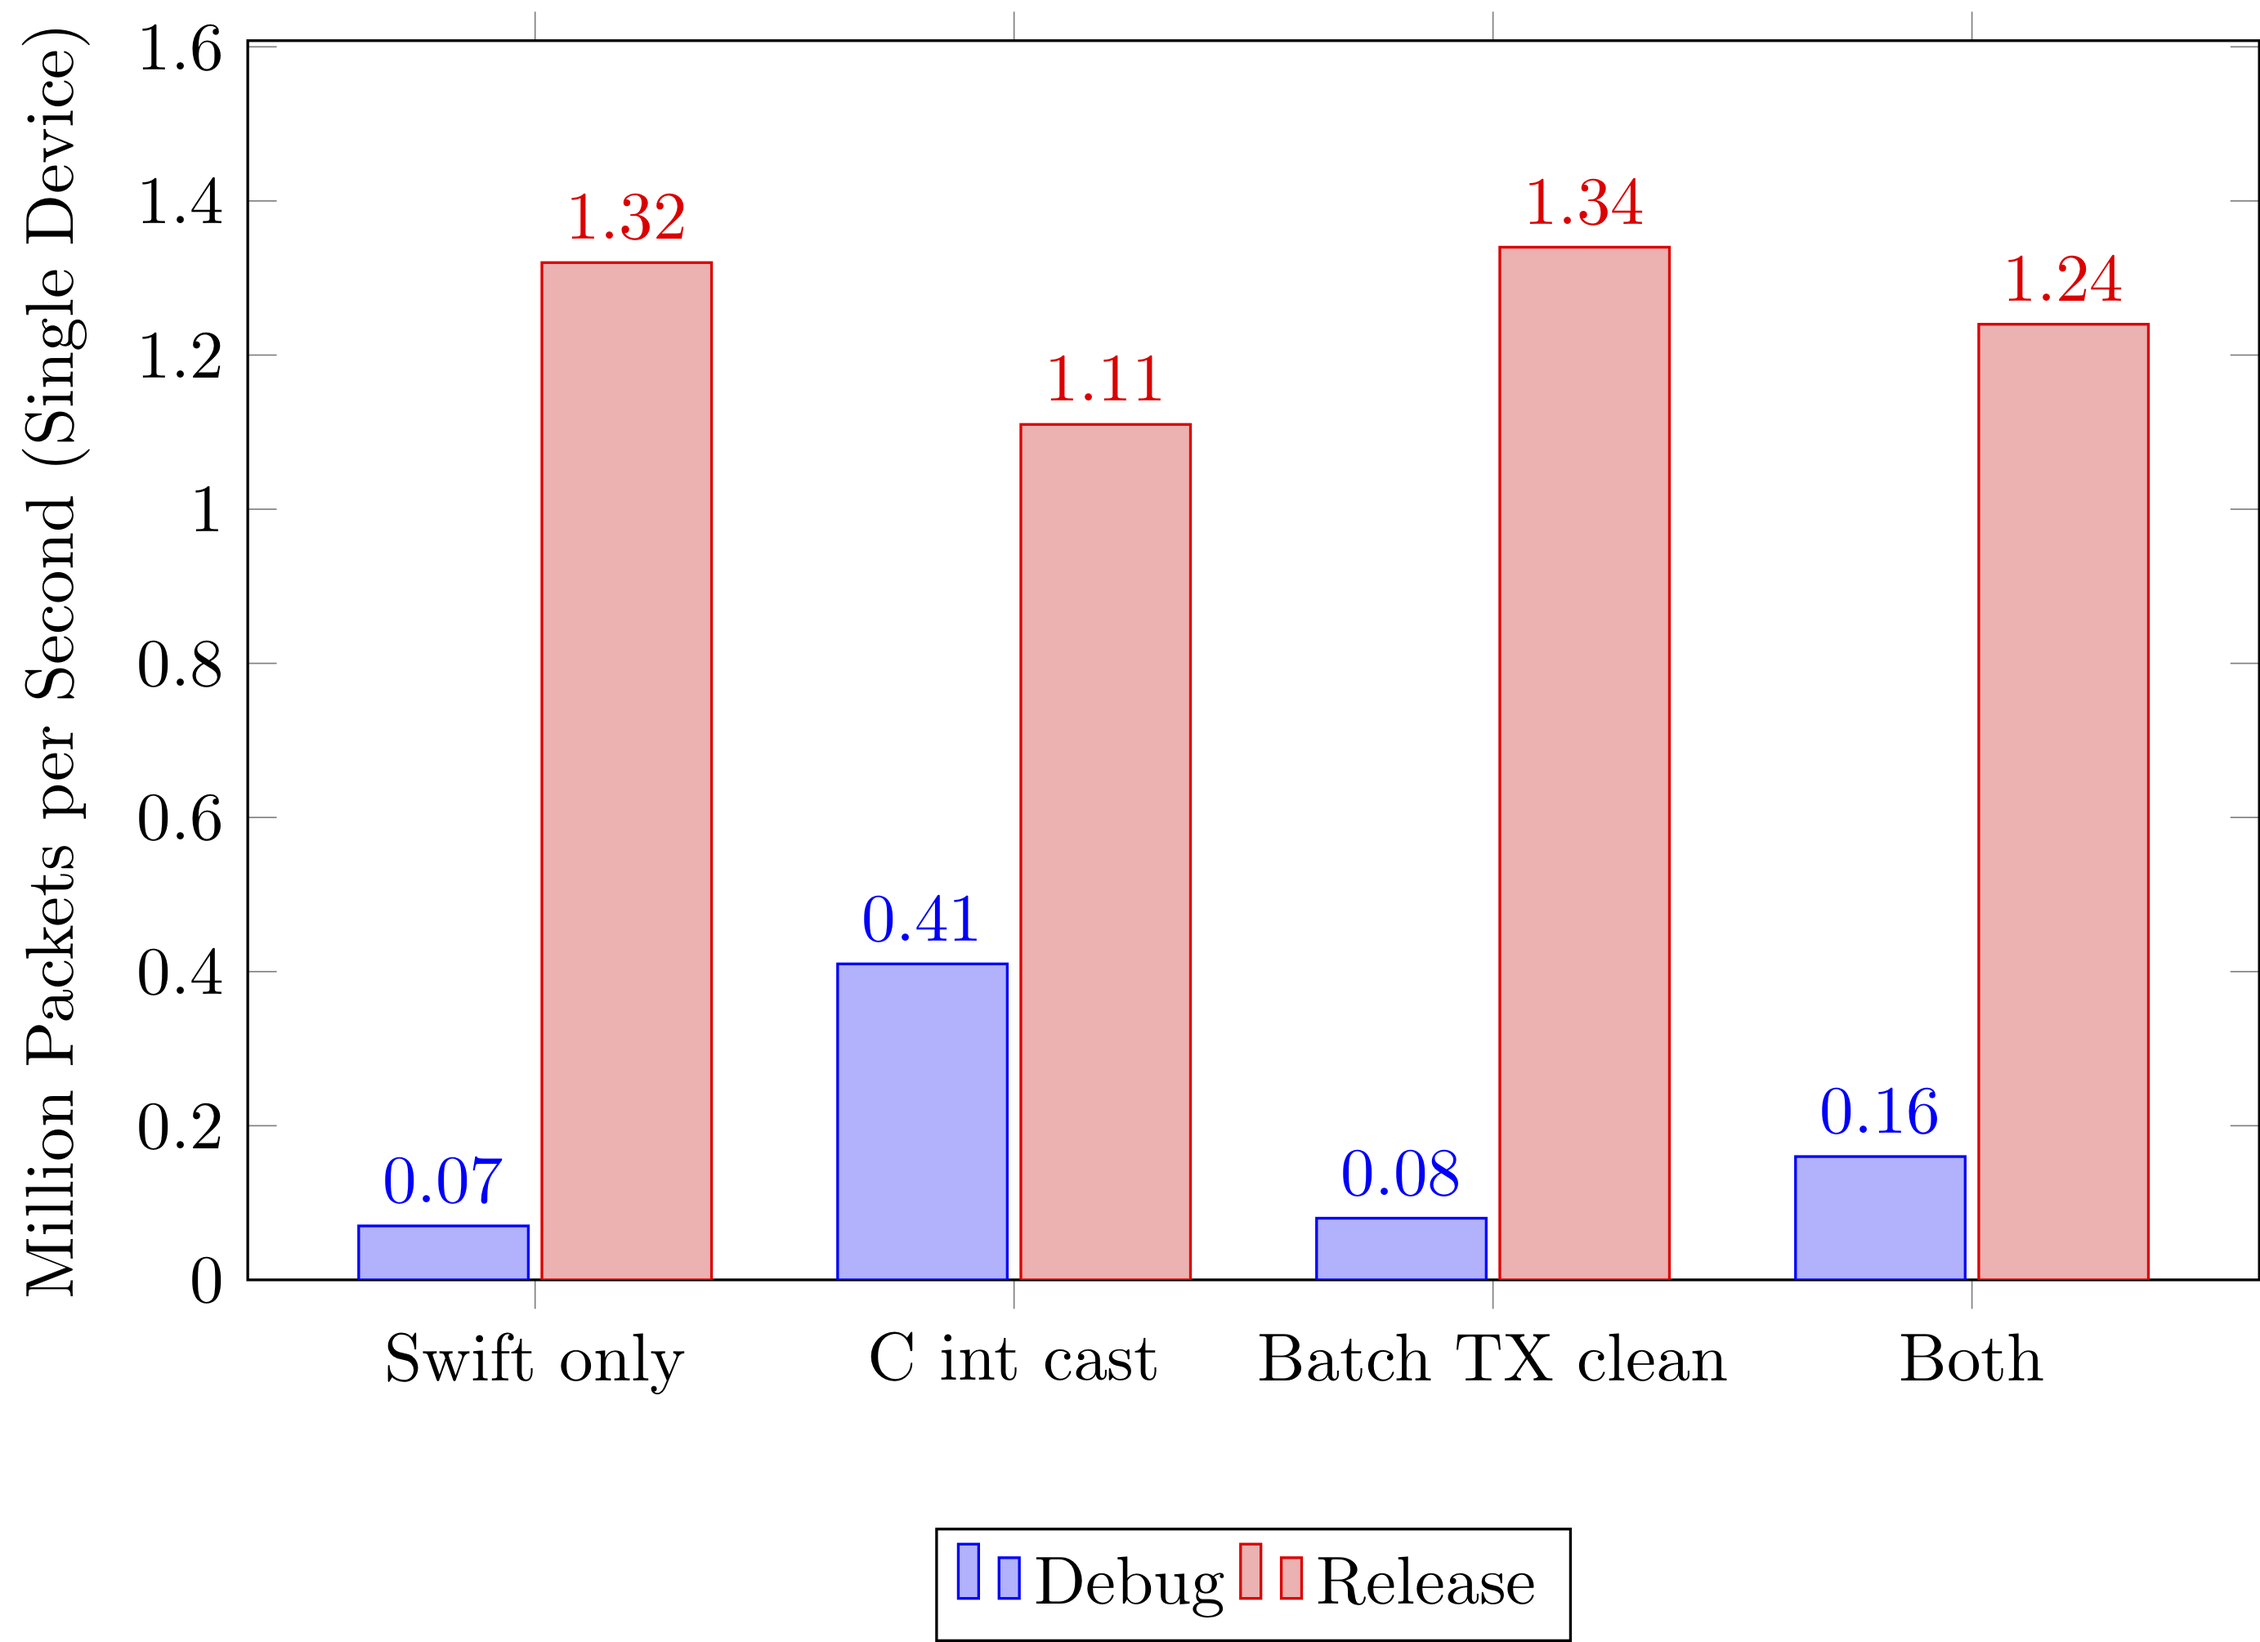
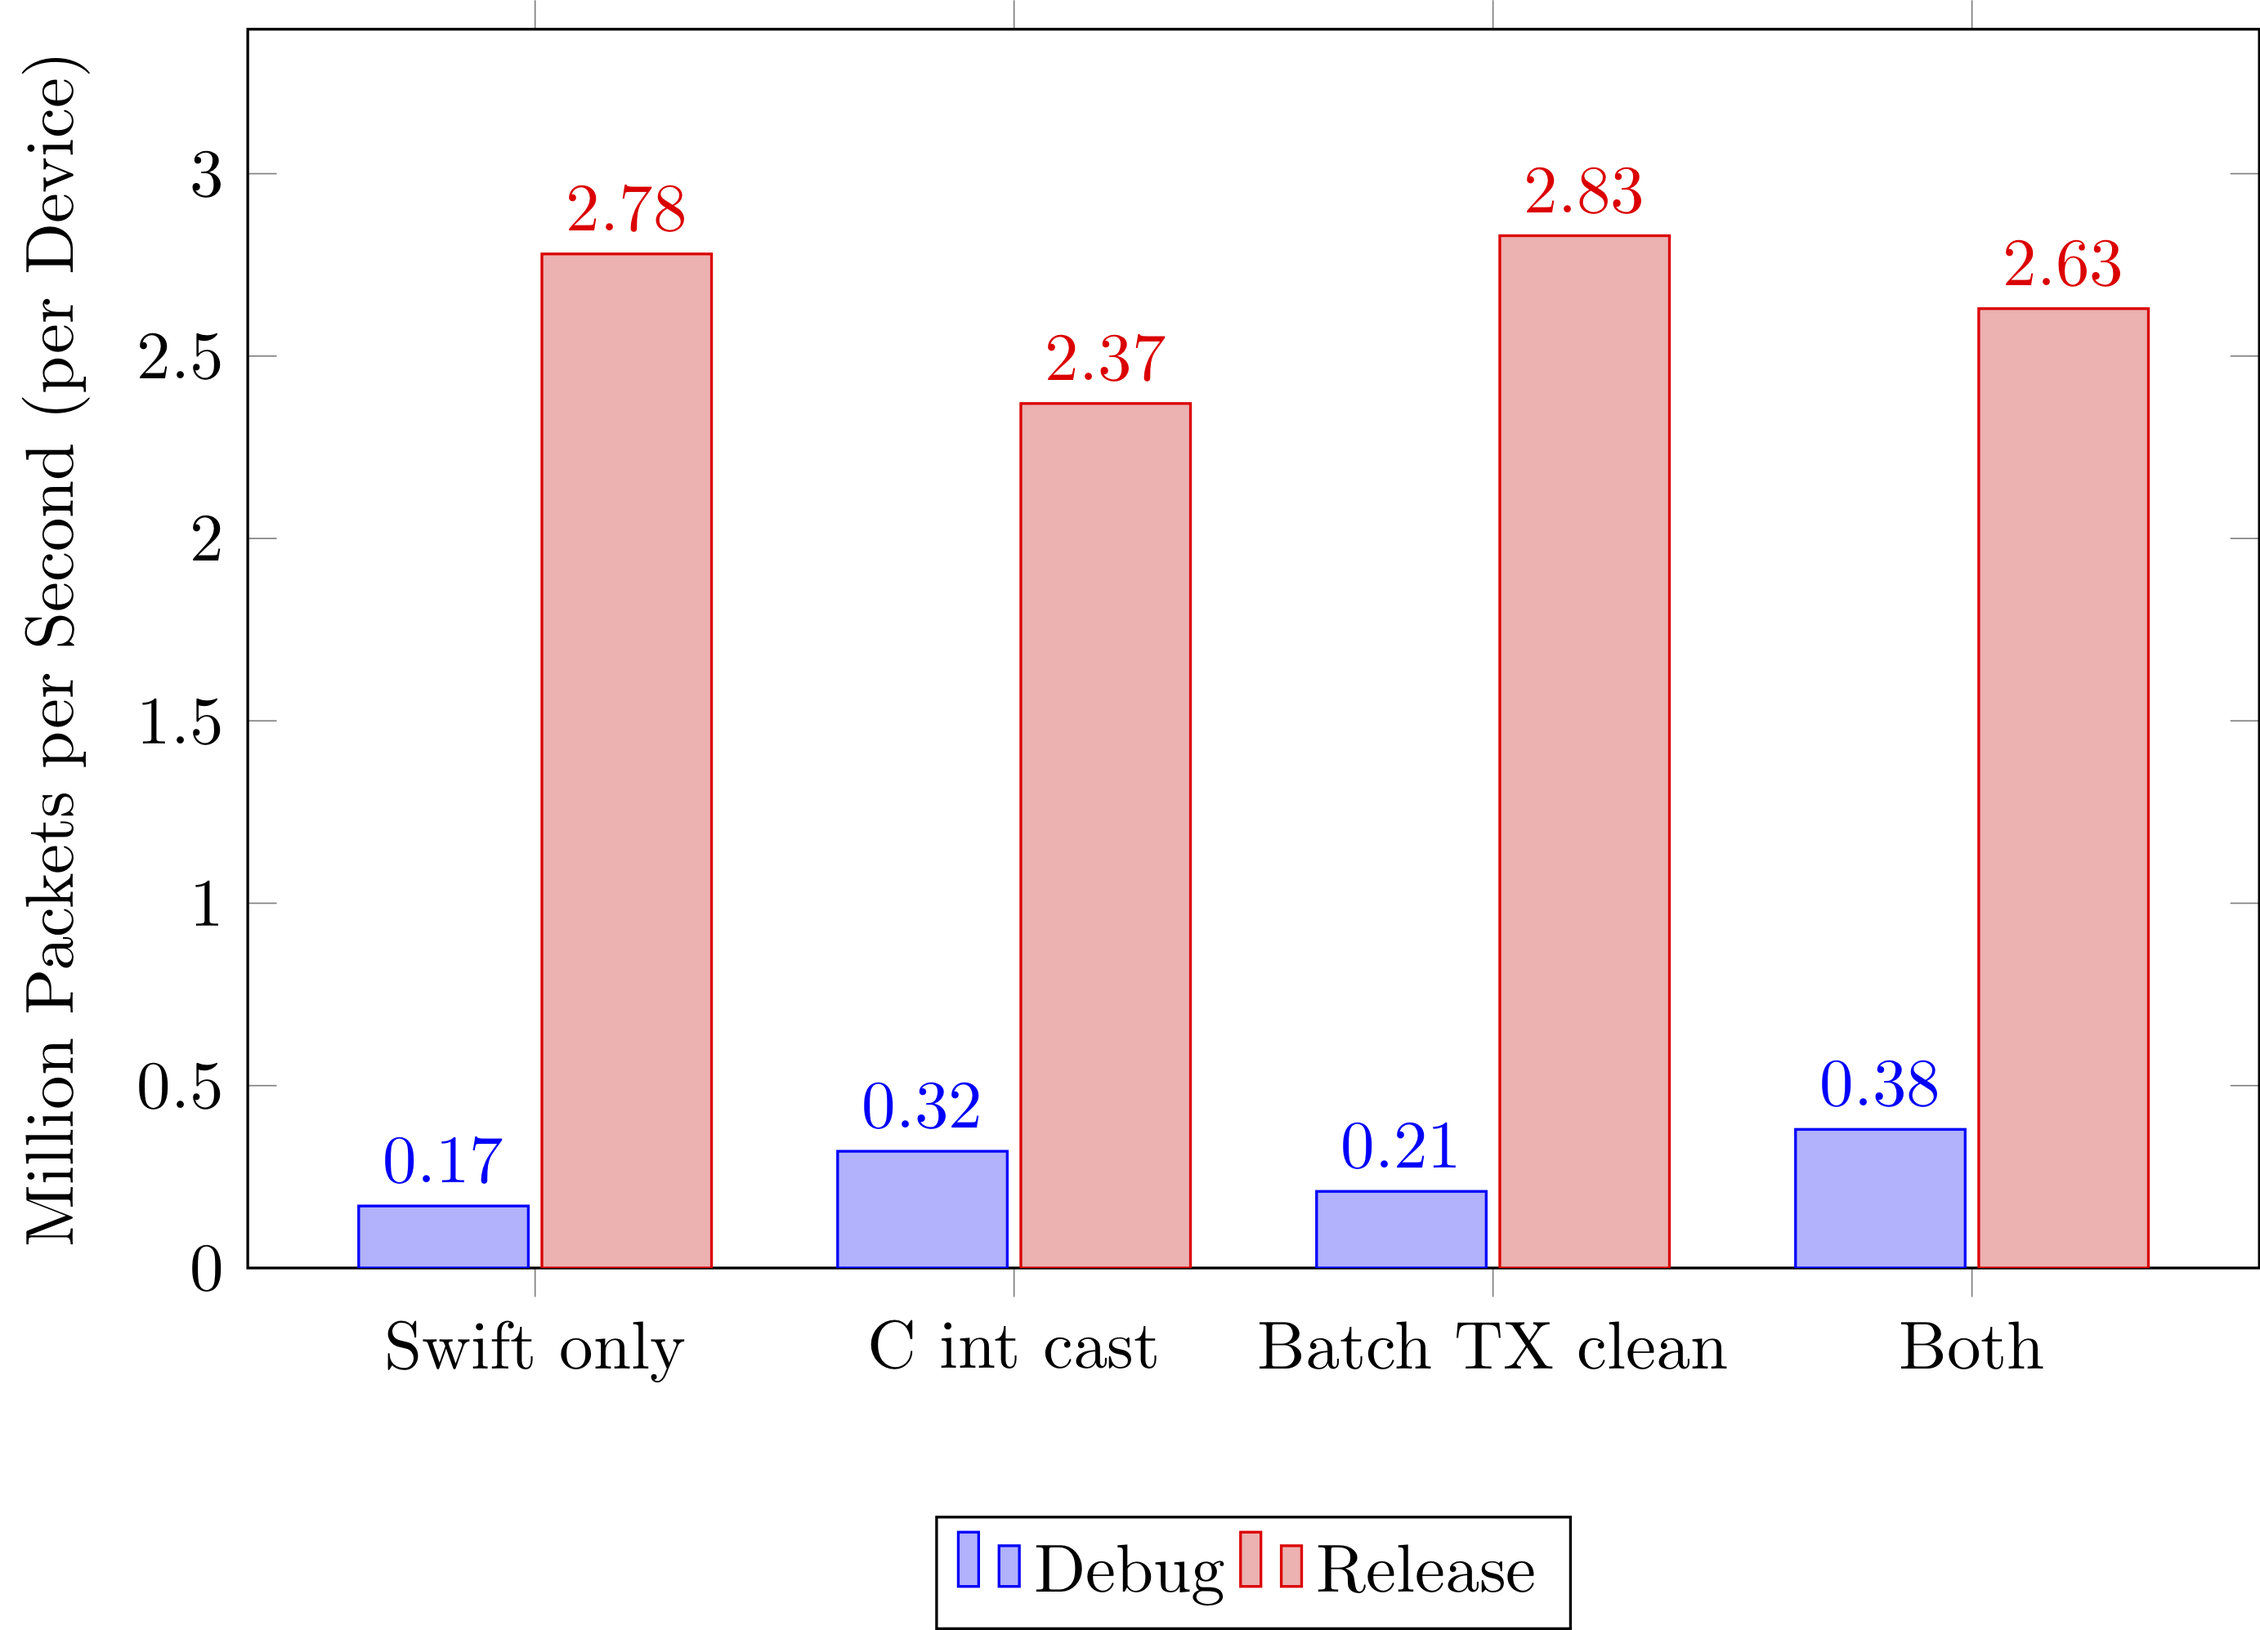
updated tests, added batch size test

diff --git a/performance/README.md b/performance/README.md
@@ -30,6 +30,16 @@ However, the FlameGraph tool can be used to create an interactive SVG for the ca
 	swift-demangle | \
 	~/FlameGraph/flamegraph.pl > ~/graph.svg`
 
+The following table gives a quick overview over the components and their time consumption in percent of the whole execution time. The percentage might result in a number greater than 100% when added, as, for example, retain/release code is still counted as part of the receive function
+
+Component | Debug | Release
+---- | ---- | ----
+Retain/Release | 22.6% | 76.1%
+Receive | 43.2% | 32.5%
+Transmit | 42.4% | 29.2
+
+The following two graphs show a more detailed view of the functions involved and their respective execution time.
+
 ![FlameGraph release](graph-release.svg)
 
 The generated flame graph for the release version (above) shows a lot of time being spent in the retain/release calls, which are part of the Automated Reference Counting (ARC) of Swift.
@@ -41,11 +51,11 @@ For a more detailed flame graph, the debug build can be used. However, the debug
 The debug flame graph shown above contains all functions without any compiler optimizations. Here, most time is spent in arbitrary functions like integer conversions and memory access with masks applied (for example when checking if a packet descriptor is done). Therefore, C-implementations were introduced for this "bottleneck" functions. Switching between the two versions is done using compiler flags, so no additional code is executed when running the application.
 
 The following measures are all for running the normal forward code with two devices, but only using the stats from one, as they are always 1/2 of the complete Mpps.  
-When using the C stand-ins in the debug build, ~0.41 Mpps are sent, for the release build it's 1.11 Mpps. However, the normal swift release build is still faster.
+When using the C stand-ins in the debug build, ~0.32 Mpps are sent, for the release build it's 2.37 Mpps. However, the normal swift release build is still faster.
 
-Another performance improvement in the C version was due to a batch cleanup of old transmit descriptors, which was subsequently implemented in the swift version. This version performed best in release mode, but similar to the normal version in debug mode.
+Another performance improvement in the C version was due to a batch cleanup of old transmit descriptors, which was subsequently implemented in the swift version. This version performed best in release mode.
 
-Combining both, the C stand-ins and the batch transmit cleanup, the debug version is somehow slower than just the C stand-in, but faster than the batch TX version. In release configuration, the performance is between only the batch tx cleanup and the C stand in version.
+Combining both, the C stand-ins and the batch transmit cleanup, the debug version is faster than its other versions. In release configuration, the performance is between only the batch tx cleanup and the C stand in version.
 
 ![Version comparison](versions.png)
 
@@ -54,7 +64,12 @@ Unfortunately, none of these alternatives were faster than the base version.
 
 ![Array comparison](arrays.png)
 
-In conclusion, the current Swift version is far slower than the other. Although three different developers with Swift experience reviewed the code, no one found bottlenecks introduced by bad programming patterns. There is nearly no dynamic dispatch in critical sections and object allocations/copies are rarely created.
+The C version includes a batch size for fetching the received packets. This feature was also implemented and tested, both in debug and release configuration.
+The graph below shows the speed of those versions, with the dashed line specifying the performance without batch sizes (dynamic arrays). Using a batch size of 256 is the fastest option in both the debug and release builds. This might be due to pre-allocating the necessary memory instead of dynamic array resizing when necessary.
+
+![Batch sizes](batch_size.png)
+
+In conclusion, the current Swift version is far slower than the other ixy projects currently available. Although three different developers with Swift experience reviewed the code, no one found bottlenecks introduced by bad programming patterns. There is nearly no dynamic dispatch in critical sections and object allocations/copies are rarely created.
 It might be possible that there are ways to improve the performance, but as the current code is quite standard Swift code, some solutions might offer better performance with the cost of having more C-like code without object-orientation.
 
 ### Used Versions
